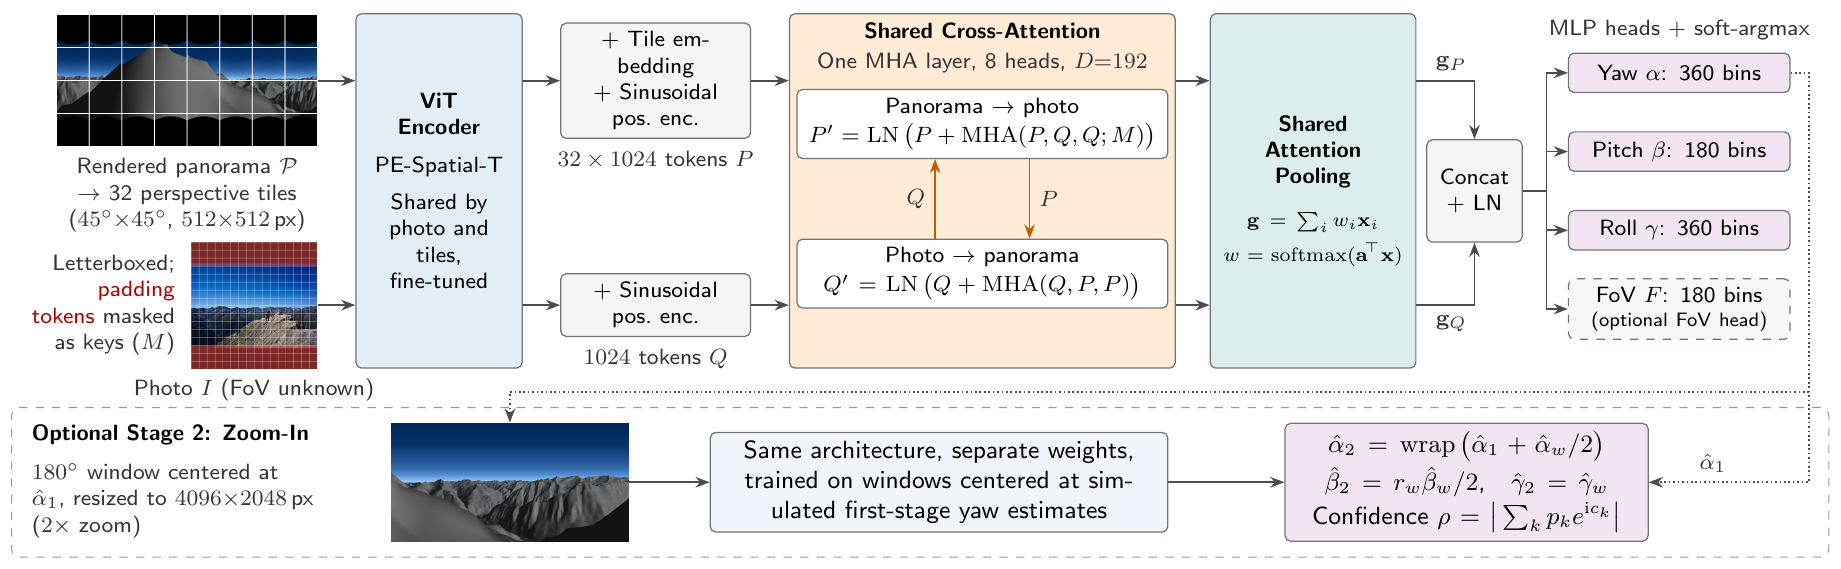
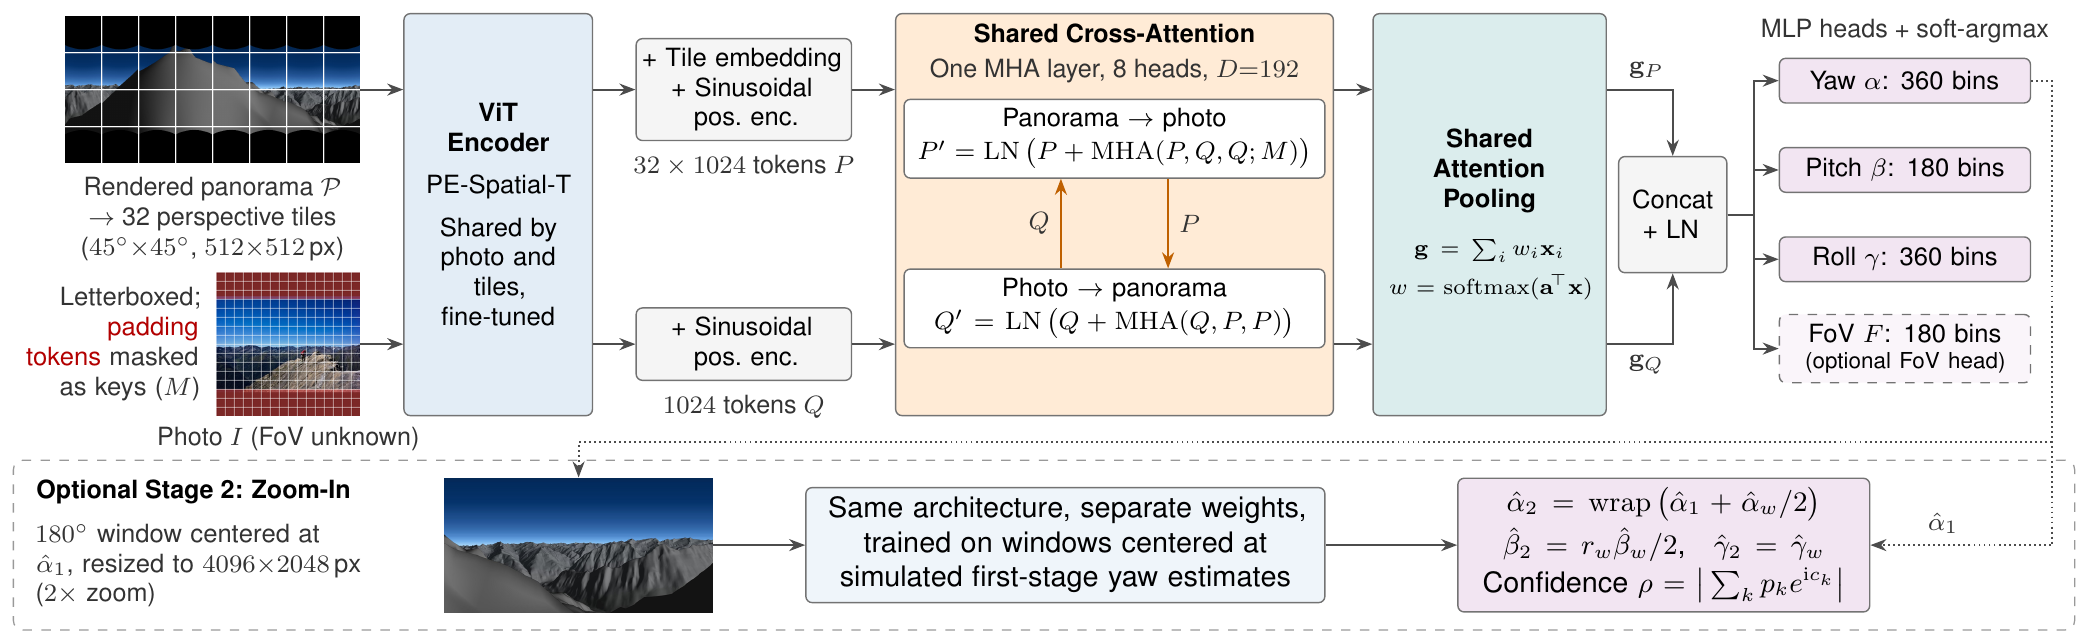
fix results and figures

diff --git a/README.md b/README.md
@@ -18,7 +18,7 @@
 <p align="center"><sub>
   GeoPose3K test photos in difficult conditions (top) and the untextured panoramas rendered from a digital
   elevation model at their positions (bottom, cropped). Green: ground-truth outline; dashed orange: outline
-  from the predicted orientation (two stages, drawn with the ground-truth FoV); below: orientation error.
+  from the orientation of the two-stage Photo2Pano, drawn with the ground-truth FoV; below: orientation error.
 </sub></p>
 
 A geotag tells *where* a photo was taken, but not *where the camera was looking*. **Photo2Pano** takes a
@@ -30,13 +30,20 @@ at the camera position, and predicts the camera **yaw, pitch and roll** and, opt
 
 - **No FoV needed.** Classical photo-to-terrain pipelines take the FoV as input; Photo2Pano infers the scale
   of the photo in the panorama by attention.
+- **The Photo2Pano dataset.** We release 19,549 rendered 360° panoramas for 22,654 photos of GeoPose3K,
+  LandscapeAR and Venturi with their ground-truth orientation, FoV and camera position, together with our
+  splits. We inspected all automatically posed LandscapeAR pairs; the 2,004 unusable ones are not used for
+  training, but are released as well. Download on the [project page](https://cphoto.fit.vutbr.cz/photo2pano/).
 - **Accurate where pipelines fail.** On the GeoPose3K test split, the mean/median orientation error is
-  **11.9° / 2.6°**, compared with 39.3° / 3.5° for CF-VCC-2011 (given the ground-truth FoV), 41.4° / 6.3°
-  for our reimplementation of the m3D silhouette matching and 63.6° / 48.5° for the best generic matcher.
+  **11.9° / 2.6°** without knowing the FoV, compared with 39.3° / 3.5° for CF-VCC-2011 and 41.4° / 6.3° for
+  our reimplementation of VCC-2011-m3D, which both receive the ground-truth FoV. Generic matchers (DUSt3R,
+  MASt3R, MatchAnything) do not bridge the gap between photos and renderings (medians above 46°).
 - **Letterbox padding matters.** Without a mask, the cross-attention focuses on the black padding of resized
-  photos; masking it as attention keys halves the one-stage median error (9.2° → 4.6° on GeoPose3K).
+  photos; masking it as attention keys halves the one-stage median error (9.2° → 4.6° on GeoPose3K,
+  8.5° → 4.2° on Venturi).
 - **Zoom-in refinement.** An optional second stage re-estimates the orientation on a 2× magnified 180°
-  window around the first-stage yaw, trained with simulated first-stage errors.
+  window around the first-stage yaw, trained with simulated first-stage errors (median 4.6° → 2.6° on
+  GeoPose3K, 4.2° → 1.8° on Venturi).
 - **Fast.** 218 ms (first stage) + 607 ms (second stage) per query on an A100, 2.7 GB of GPU memory.
 
 ## Method
@@ -59,31 +66,35 @@ each error threshold.
 
 | Method | FoV given | Mean ↓ | Median ↓ | < 1° ↑ | < 5° ↑ | < 10° ↑ | < 20° ↑ |
 |---|:---:|---:|---:|---:|---:|---:|---:|
-| MatchAnything (best generic matcher) | – | 63.6° | 48.5° | 0.0% | 2.1% | 11.8% | 30.6% |
-| m3D (our reimplementation) | – | 41.4° | 6.3° | 11.6% | 46.3% | 55.6% | 60.1% |
+| DUSt3R | – | 105.2° | 97.4° | 0.0% | 0.0% | 0.0% | 0.0% |
+| MASt3R | – | 61.1° | 46.8° | 0.0% | 1.0% | 7.8% | 24.6% |
+| MatchAnything | – | 64.9° | 49.8° | 0.0% | 1.7% | 9.1% | 30.2% |
+| VCC-2011-m3D (our reimplementation) | ground truth | 41.4° | 6.3° | 11.6% | 46.3% | 55.6% | 60.1% |
 | CF-VCC-2011 | ground truth | 39.3° | 3.5° | **≈39%** | 51.6% | 54.1% | 59.5% |
+| LandscapeAR (textured renderings) | ground truth | – | – | **39.0%** | 65.0% | 69.0%\* | – |
 | Photo2Pano, one stage | – | 16.0° | 4.6° | 5.2% | 51.9% | 72.1% | 81.0% |
 | **Photo2Pano, two stages** | – | **11.9°** | **2.6°** | 11.8% | **74.8%** | **85.5%** | **89.7%** |
 
-MatchAnything is the best of the generic matchers that we evaluated with their released weights
-(DUSt3R, MASt3R, MatchAnything; see the paper). Below 1°, the FoV-aware pipelines remain more precise
-(about 39% of the photos for CF-VCC-2011 and LandscapeAR); m3D, which does not receive the FoV, places
-11.6% of the photos within 1°, on par with Photo2Pano (11.8%).
+The generic matchers are evaluated with their released weights. CF-VCC-2011 is read from its published
+cumulative error curve, and LandscapeAR reports accuracies at 1°, 5° and 9° (\*). A constant orientation
+(an oracle: the yaw with the lowest mean error, median pitch and zero roll) gives 79.1° / 75.6°. Below 1°,
+the FoV-aware pipelines remain more precise (about 39% of the photos for CF-VCC-2011 and LandscapeAR);
+VCC-2011-m3D places 11.6% of the photos within 1°, on par with Photo2Pano (11.8%).
 
 **Venturi** (12 video sequences, 3,117 frames): the two-stage model reaches **7.4° / 1.8°** (mean / median
 over all frames), compared with a mean of 12.4° for CF-VCC-2011; the pipelines with m3D verification,
 which receive the ground-truth FoV, remain more accurate (1.9°–2.9° mean).
 
 **FoV estimation:** the optional FoV head reaches a median / mean FoV error of **5.4° / 7.7°** on
-GeoPose3K, between fine-tuned GeoCalib (7.3° / 9.3°) and fine-tuned AnyCalib (4.5° / 5.3°), at the cost of
-a higher orientation error.
+GeoPose3K, behind the best single-image calibration method fine-tuned on our data (AnyCalib, 4.5° / 5.3°).
+It raises the one-stage orientation error from 16.0° / 4.6° to 19.6° / 9.2°.
 
 <p align="center">
   <img src="assets/results.png" width="100%" alt="Cumulative errors and selective prediction">
 </p>
 <p align="center"><sub>
-  (a, b) Cumulative orientation error; on GeoPose3K (a) also m3D (our reimplementation) and CF-VCC-2011.
-  (c, d) Mean error over the most confident fraction of the images.
+  (a, b) Cumulative orientation error; on GeoPose3K (a) also VCC-2011-m3D (our reimplementation) and
+  CF-VCC-2011, both given the ground-truth FoV. (c, d) Mean error over the most confident fraction of the images.
 </sub></p>
 
 ## Installation
@@ -95,8 +106,9 @@ pip install -r requirements.txt
 ```
 
 The encoder `timm/vit_pe_spatial_tiny_patch16_512.fb` is downloaded from the Hugging Face hub at the
-first run. Inference needs about 2.7 GB of GPU memory and also runs on the CPU (slowly); training needs
-one GPU with 40 GB (batch size 3, about 3 h per epoch on an A100).
+first run. Inference needs about 2.7 GB of GPU memory and also runs on the CPU (slowly). The first stage of
+the paper was trained on four NVIDIA A100 GPUs (40 GB) with a batch of 3 per GPU, about 3 h per epoch
+(about 10 days for 80 epochs).
 
 ## Quick start
 
@@ -137,7 +149,8 @@ Every sample consists of three files in one directory:
 original datasets ([GeoPose3K](https://cphoto.fit.vutbr.cz/geoPose3K/), LandscapeAR, Venturi) into this
 layout, given the rendered panoramas; `preprocessing/augment.py` writes the six augmented copies of every
 training pair. `splits/` lists the samples used in the paper (augmented training and validation samples,
-GeoPose3K test split, Venturi). The data are available on the [project page](https://cphoto.fit.vutbr.cz/photo2pano/).
+GeoPose3K test split, Venturi). The Photo2Pano dataset, with the rendered panoramas, the ground truth and
+our splits, is available on the [project page](https://cphoto.fit.vutbr.cz/photo2pano/).
 
 ## Evaluation
 
@@ -160,12 +173,15 @@ accuracies, AUC, and for Venturi the mean of each sequence) is printed.
 
 ## Training
 
-**First stage** (80 epochs):
+**First stage** (80 epochs, on four GPUs as in the paper; `--batch-size`, default 3, is per GPU):
 
 ```bash
-torchrun --standalone --nproc_per_node=1 train.py --data data/train_aug --out checkpoints/stage1
-torchrun --standalone --nproc_per_node=1 train.py --data data/train_aug --out checkpoints/stage1_fov --fov-head
+torchrun --standalone --nproc_per_node=4 train.py --data data/train_aug --out checkpoints/stage1
+torchrun --standalone --nproc_per_node=4 train.py --data data/train_aug --out checkpoints/stage1_fov --fov-head
 ```
+
+A random 10% of the augmented samples (`--val-frac`) is held out to monitor training. As these samples share
+photos with the training samples, the paper evaluates the last epoch.
 
 **Second stage**: windows from the 8K renderings with simulated first-stage errors, trained from the
 pretrained encoder for 50 epochs:
@@ -173,7 +189,7 @@ pretrained encoder for 50 epochs:
 ```bash
 python build_stage2_dataset.py --in-dir data/train --pano-dir data/train_8k --out-dir data/train_s2 \
     --per-image 6 --augment --workers 8
-torchrun --standalone --nproc_per_node=1 train.py --data data/train_s2 --out checkpoints/stage2 --epochs 50
+torchrun --standalone --nproc_per_node=4 train.py --data data/train_s2 --out checkpoints/stage2 --epochs 50
 ```
 
 `--init <checkpoint> --lr 3e-5 --lr-backbone 3e-6` fine-tunes from a first-stage checkpoint instead.
@@ -223,6 +239,6 @@ assets/                   figures of this README
 The code and the trained models in `weights/` are released under the [Apache License 2.0](LICENSE).
 The models are fine-tuned from the PE-Spatial-T encoder of the
 [Perception Encoder](https://github.com/facebookresearch/perception_models), which is also released under
-Apache 2.0. 
+Apache 2.0.
 The dataset (photos, splits and rendered panoramas) is distributed separately under its own
 license; see the [project page](https://cphoto.fit.vutbr.cz/photo2pano/).
